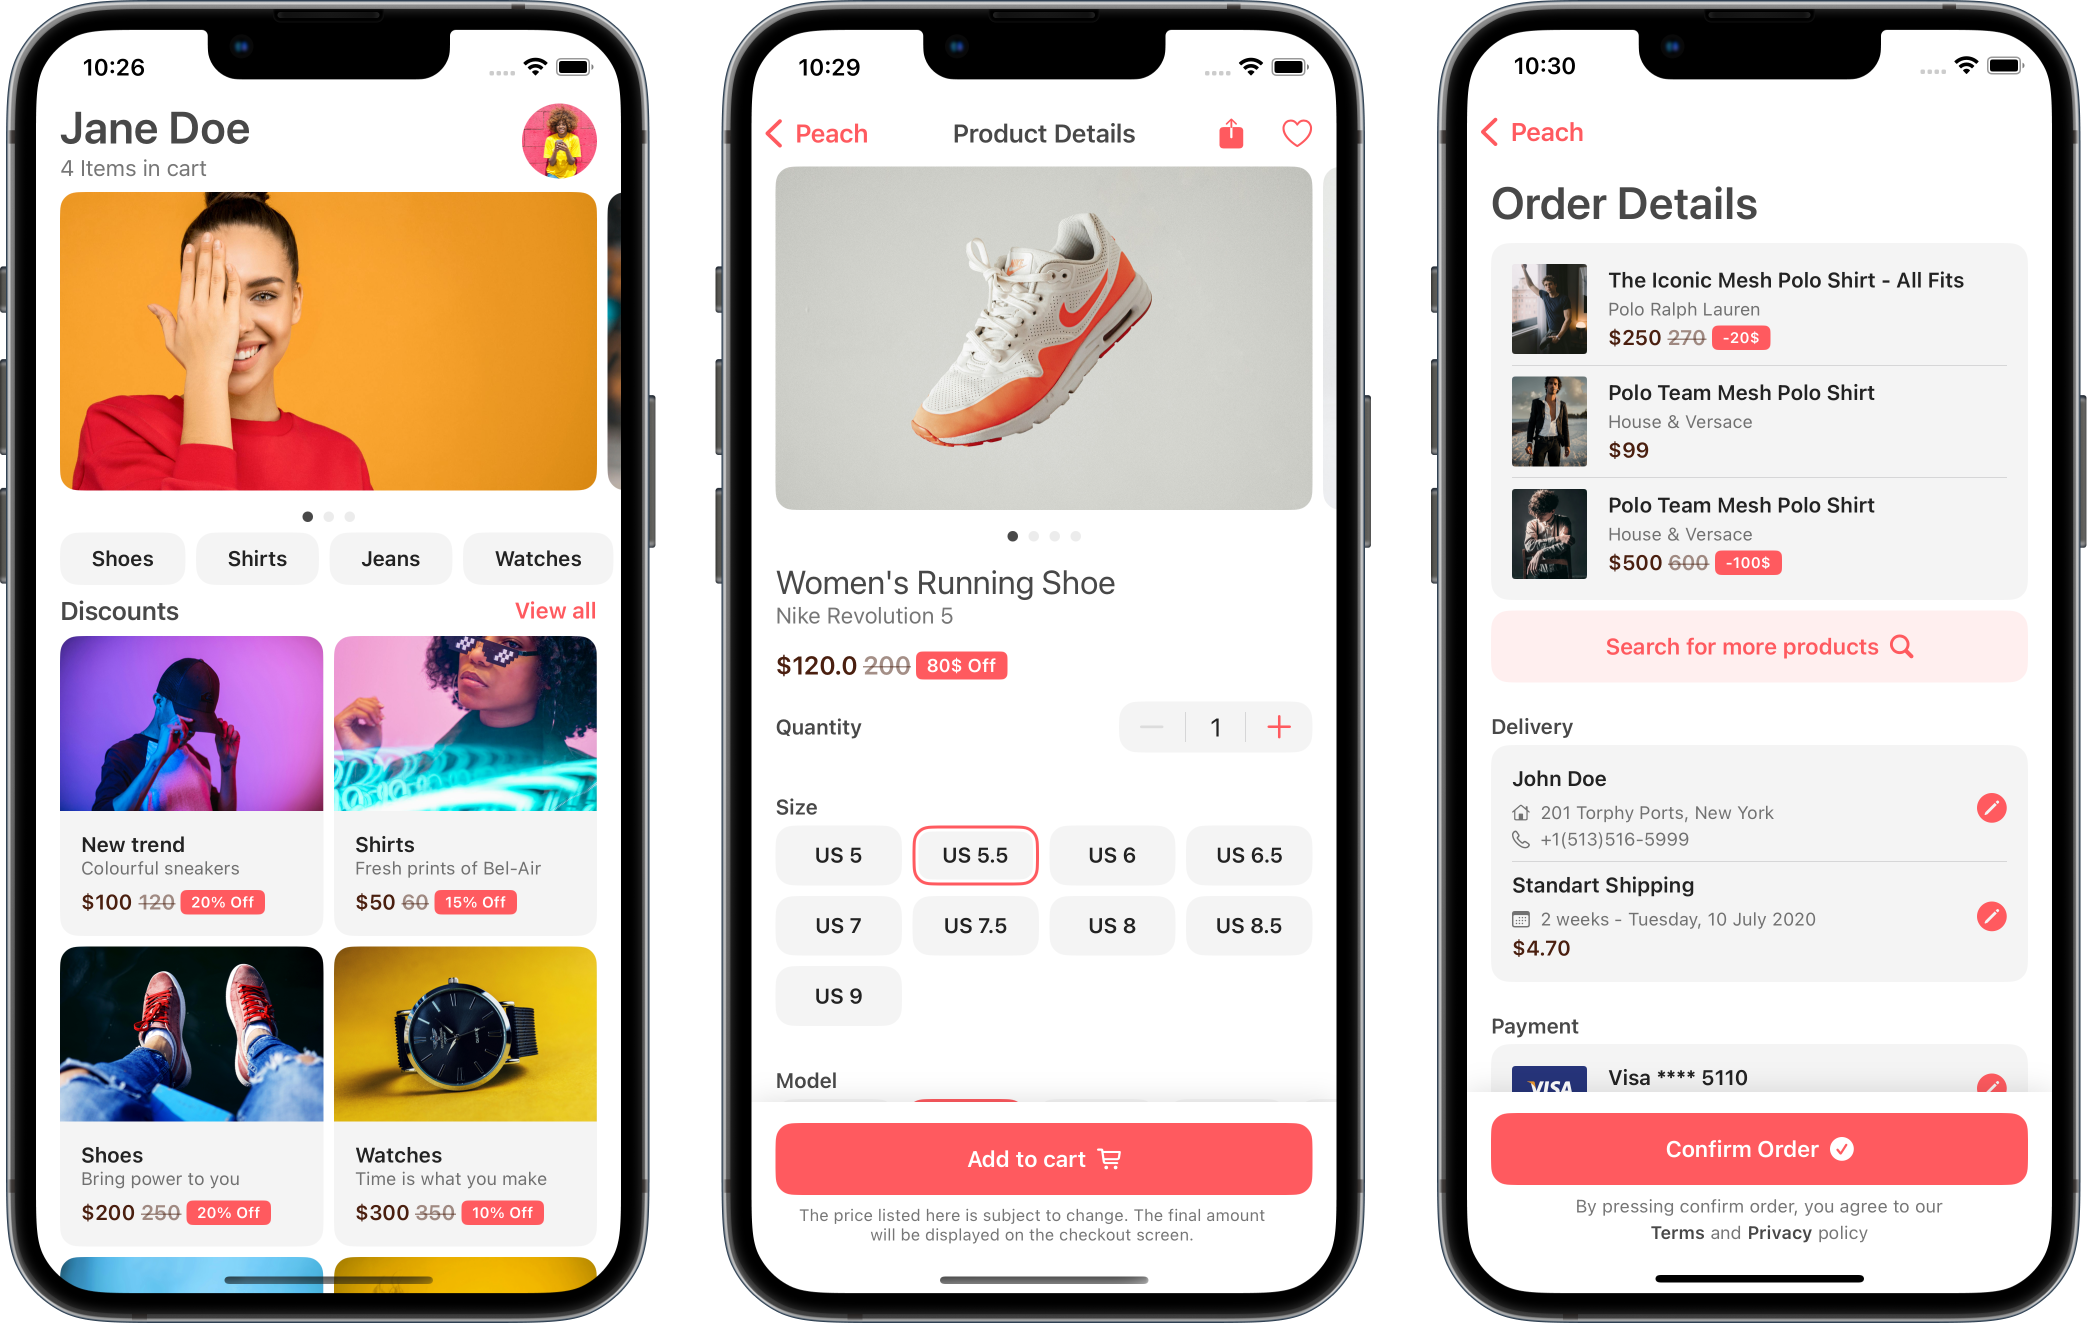
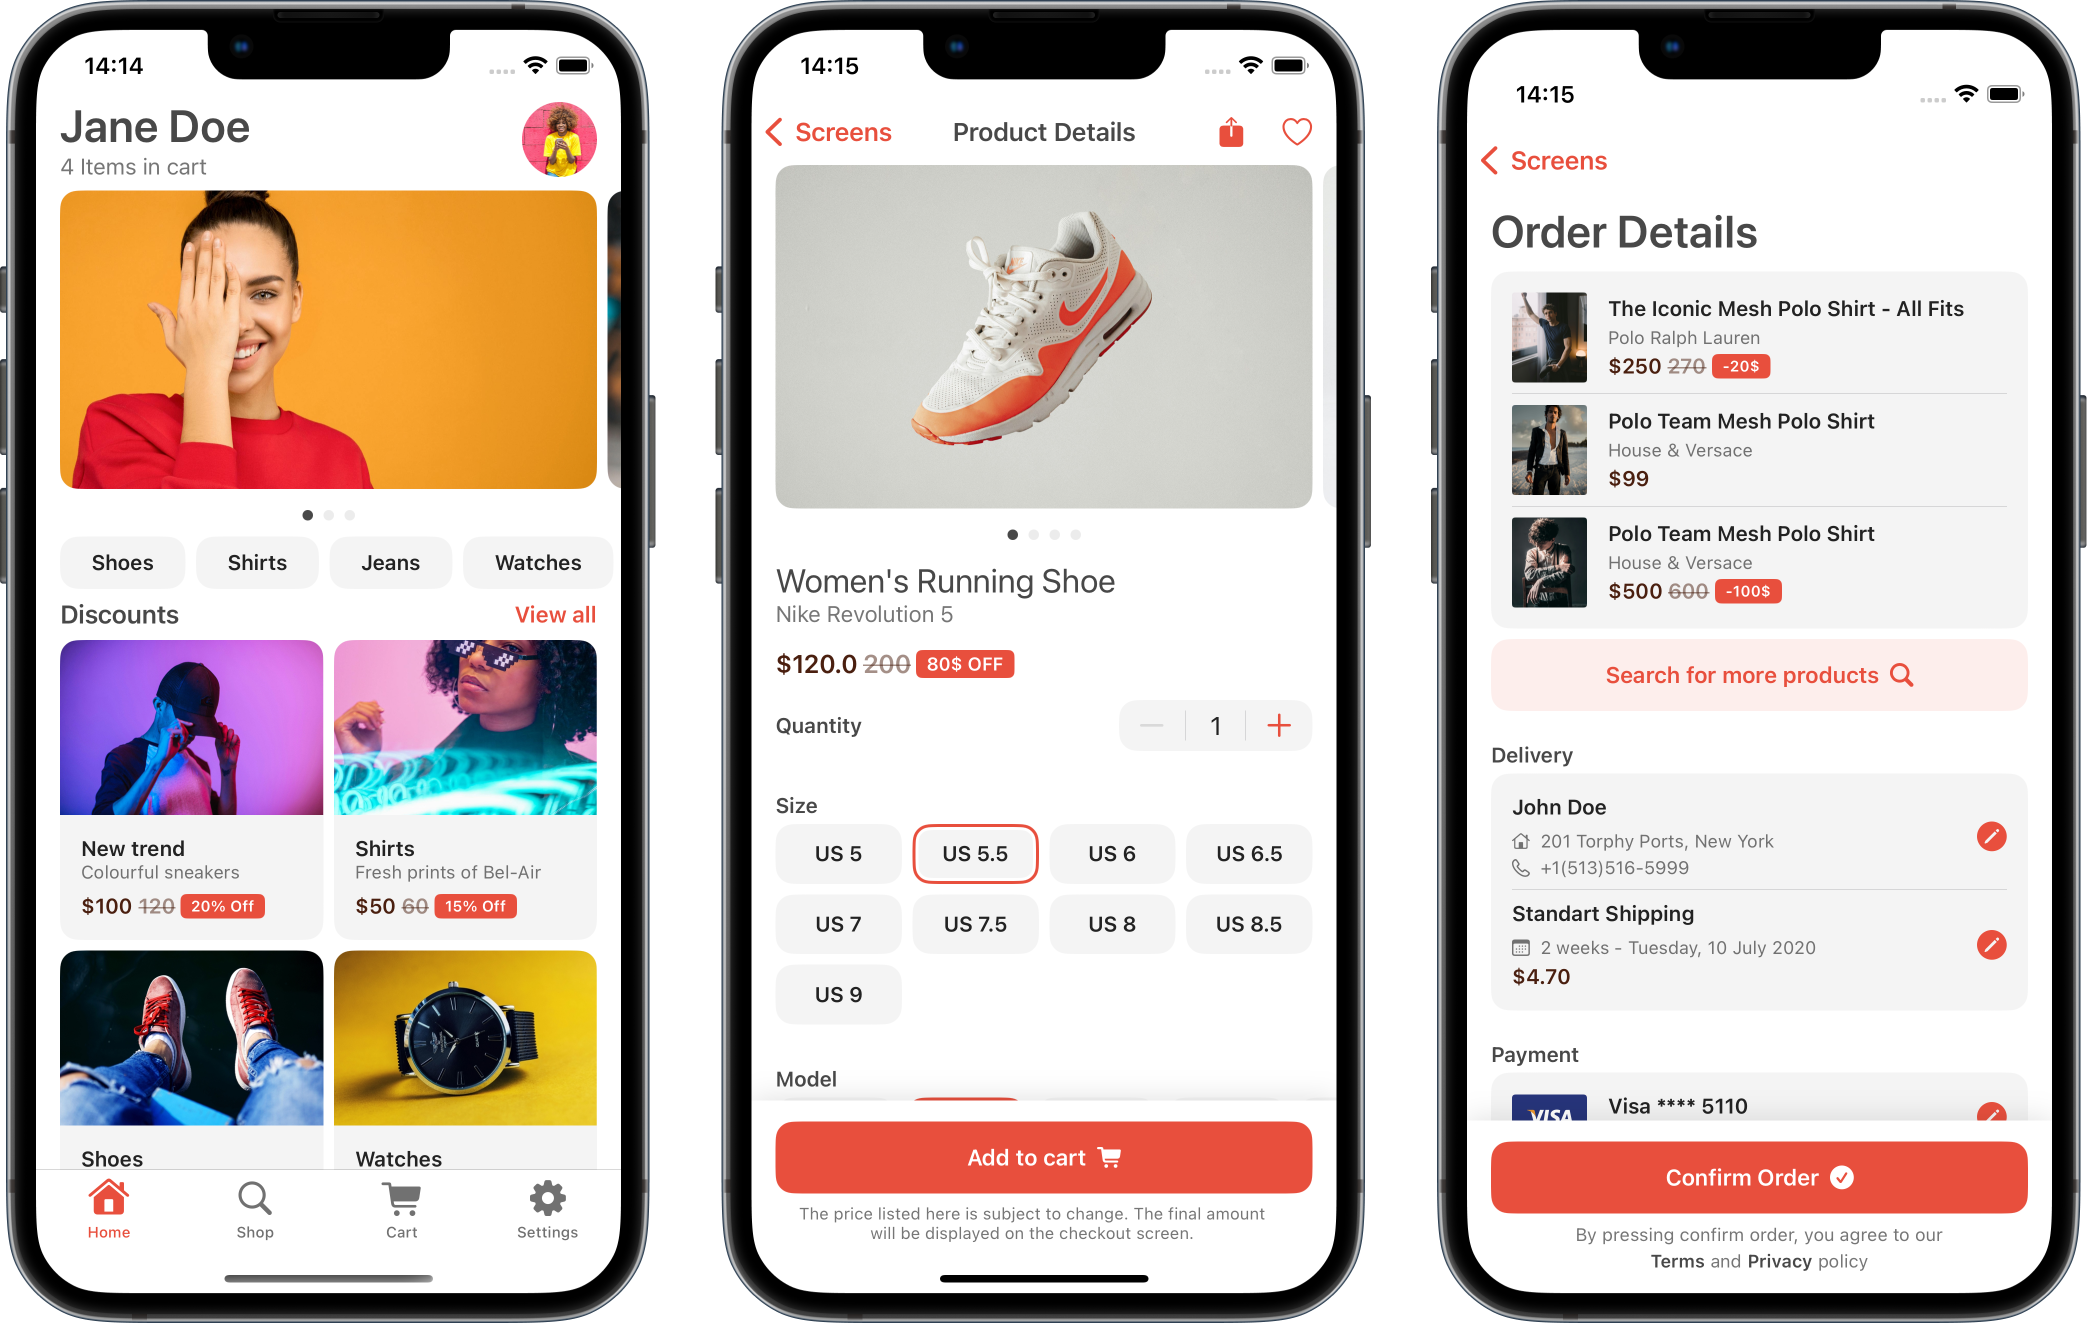
Update the peach main color and the content preview image

diff --git a/DSKit/Sources/DSKit/Appearances/PeachAppearance.swift b/DSKit/Sources/DSKit/Appearances/PeachAppearance.swift
@@ -35,7 +35,7 @@ public class PeachAppearance: DSAppearance {
         )
         
         let button = DSButtonAppearance(
-            accentColor: .dynamic(light: 0xFF5A5F, dark: 0xFF5A5F),
+            accentColor: .dynamic(light: 0xE84F3D, dark: 0xE84F3D),
             supportColor: .dynamic(light: 0xFFFFFF, dark: 0xFFFFFF)
         )
         
@@ -68,7 +68,7 @@ public class PeachAppearance: DSAppearance {
         )
         
         let secondaryViewButton = DSButtonAppearance(
-            accentColor: .dynamic(light: 0xFF5A5F, dark: 0xFF5A5F),
+            accentColor: .dynamic(light: 0xE84F3D, dark: 0xE84F3D),
             supportColor: .dynamic(light: 0xFFFFFF, dark: 0xFFFFFF)
         )
         
@@ -85,16 +85,16 @@ public class PeachAppearance: DSAppearance {
         
         tabBar = DSTabbarAppearance(
             barTint: .dynamic(light: 0xFFFFFF, dark: 0x1A1A1A),
-            itemTint: .dynamic(light: 0xFF5A5F, dark: 0xFF5A5F),
+            itemTint: .dynamic(light: 0xE84F3D, dark: 0xE84F3D),
             unselectedItemTint: .dynamic(light: 0x717171, dark: 0x999999),
-            badge: .dynamic(light: 0xFF5A5F, dark: 0xFF5A5F),
+            badge: .dynamic(light: 0xE84F3D, dark: 0xE84F3D),
             translucent: true
         )
         
         // MARK: - Navigation Bar
         
         navigationBar = DSNavigationBarAppearance(
-            buttons: .dynamic(light: 0xFF5A5F, dark: 0xD0D0D0),
+            buttons: .dynamic(light: 0xE84F3D, dark: 0xD0D0D0),
             text: text.title1,
             bar: .dynamic(light: 0xFFFFFF, dark: 0x1A1A1A),
             translucent: true
@@ -104,7 +104,7 @@ public class PeachAppearance: DSAppearance {
         
         price = DSPriceAppearance(
             regularAmount: .dynamic(light: 0x4A1F0F, dark: 0x8C8C8C),
-            badgeBackground: .dynamic(light: 0xFF5A5F, dark: 0xFF5A5F),
+            badgeBackground: .dynamic(light: 0xE84F3D, dark: 0xE84F3D),
             badgeCornerRadius: 6
         )
     }
